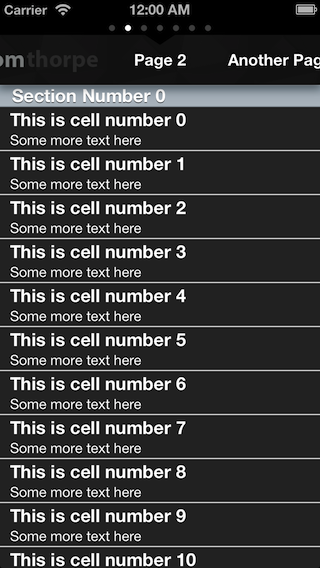
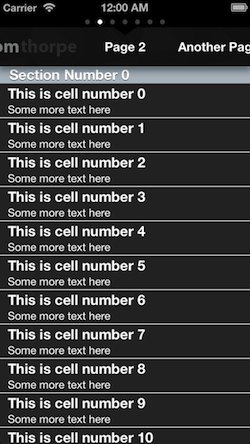
resizing screenshots

diff --git a/README.md b/README.md
@@ -7,9 +7,7 @@ This is a WORK IN PROGRESS control that will eventually allow you to add multipl
 
 Screenshots
 =========================
-![Screenshot](Screenshots/1.png)
-![Screenshot](Screenshots/2.png)
-![Screenshot](Screenshots/3.png)
+![Screenshot](Screenshots/1.png)  ![Screenshot](Screenshots/2.png)  ![Screenshot](Screenshots/3.png)
 
 Usage
 ---
